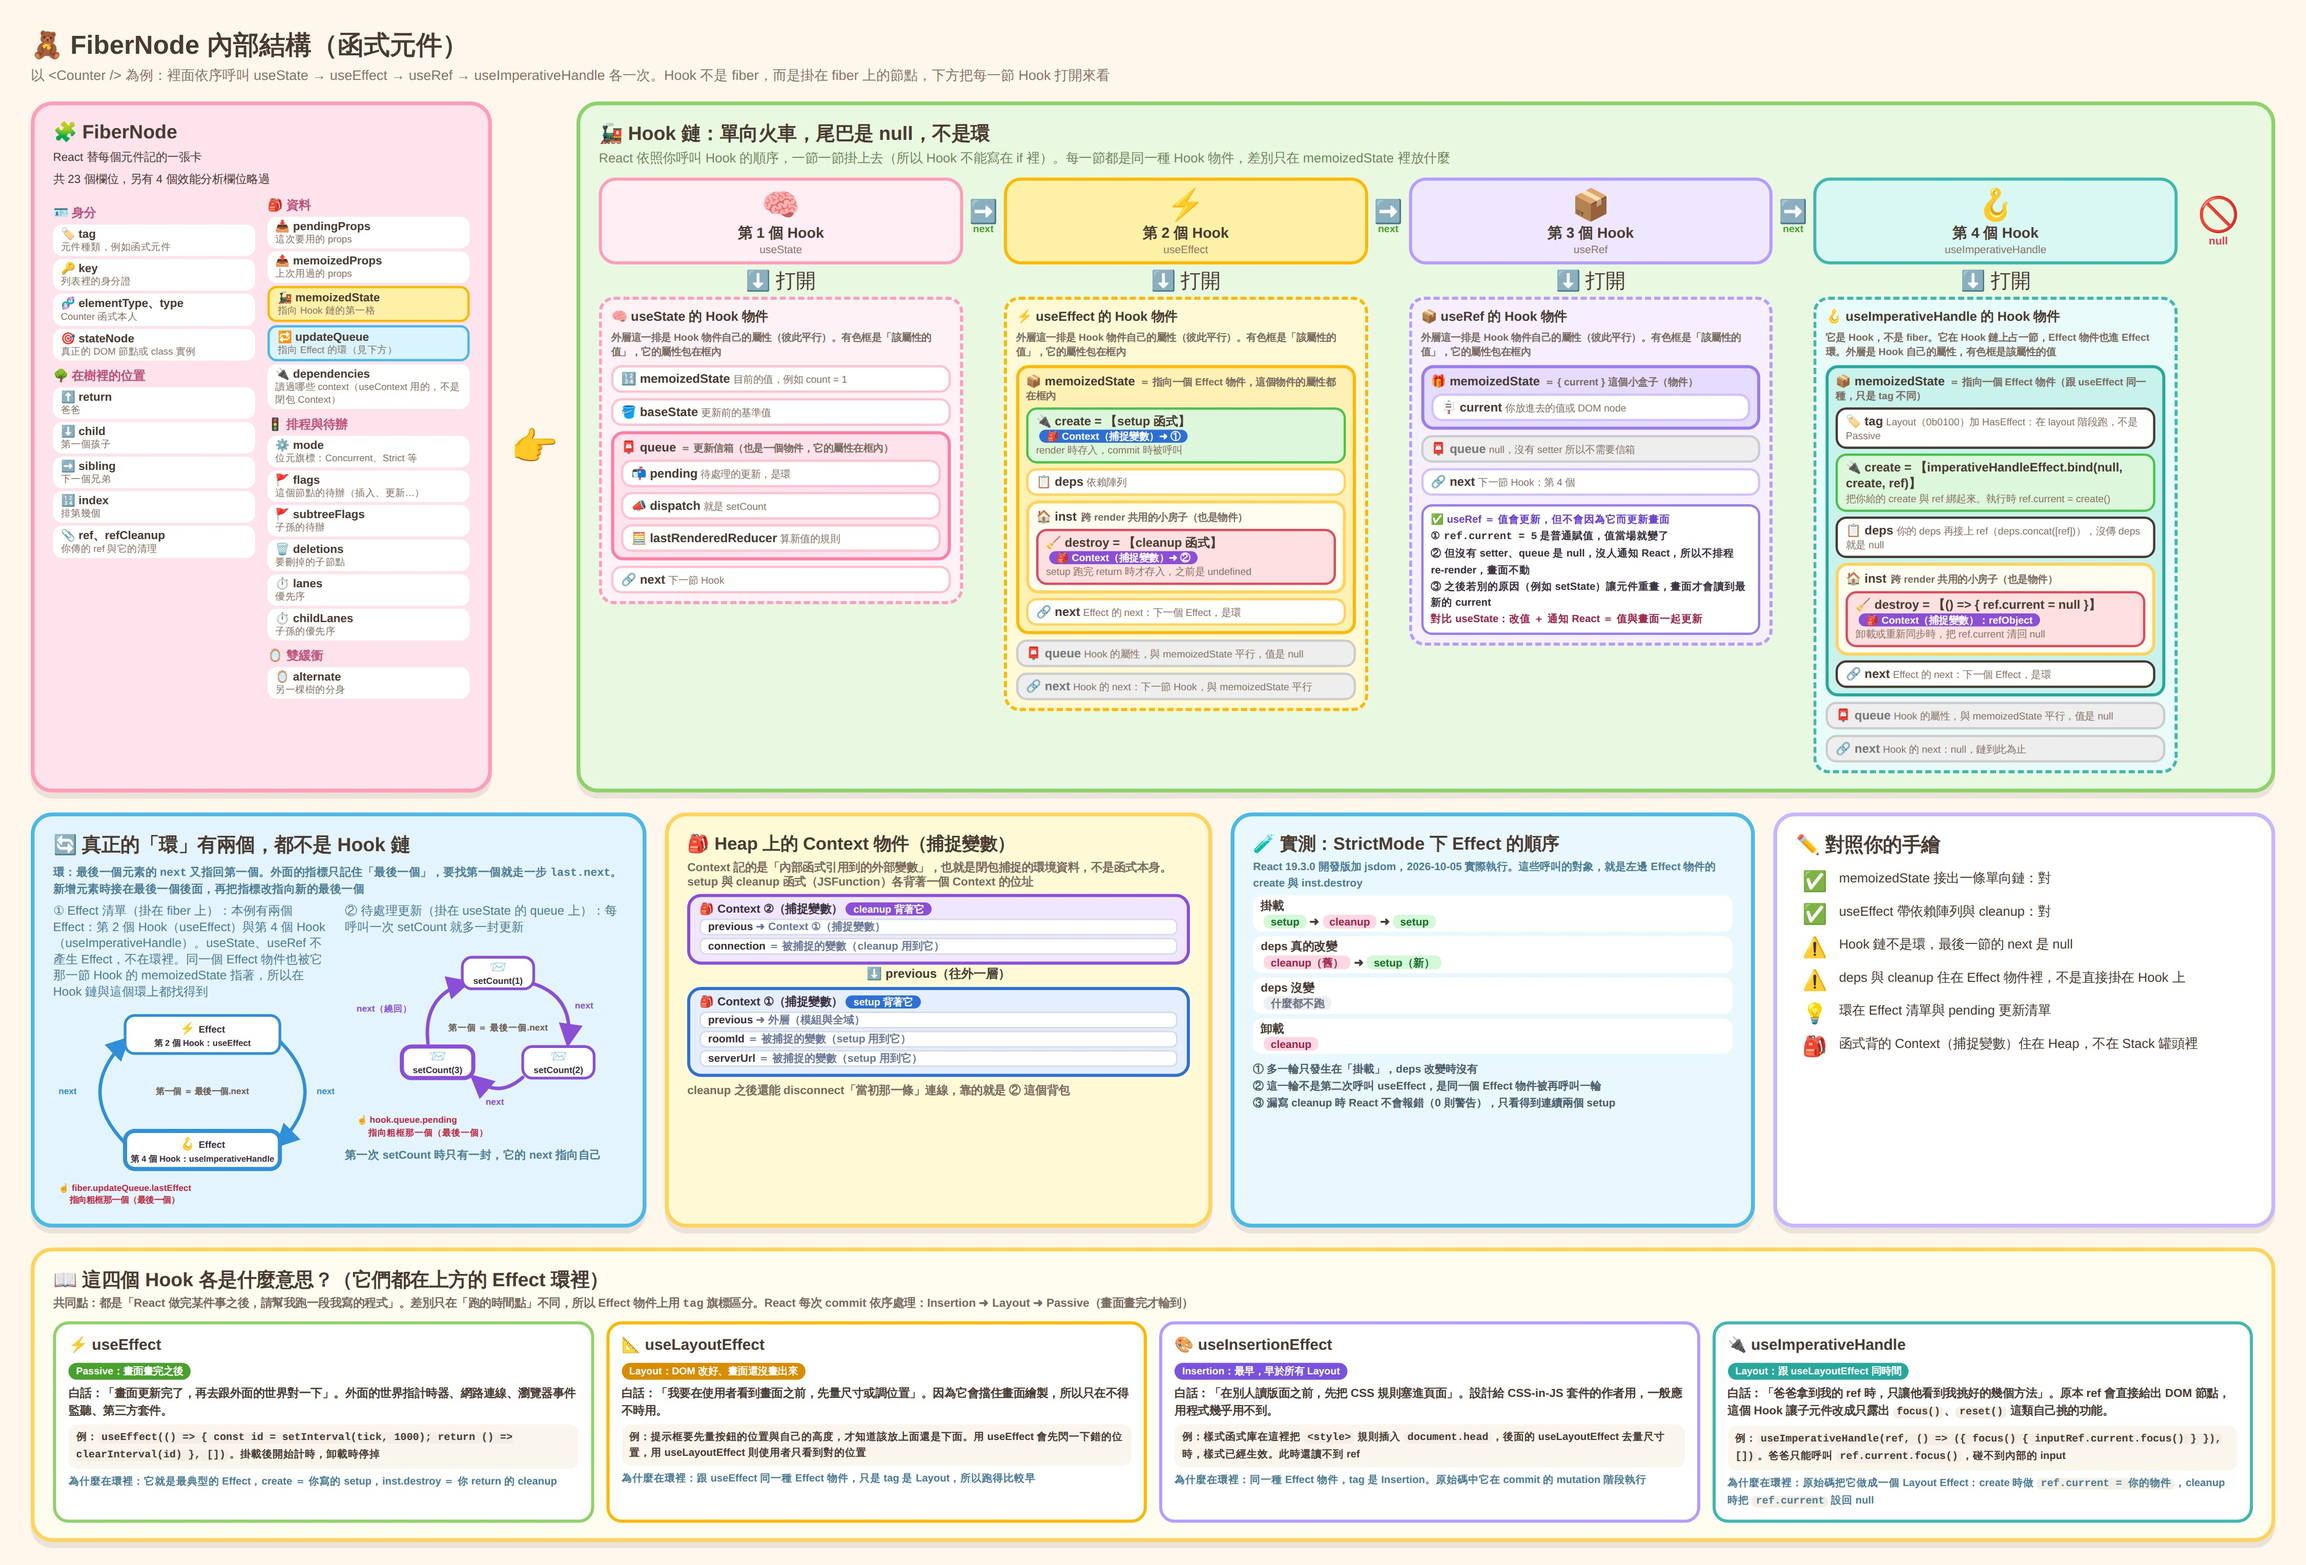
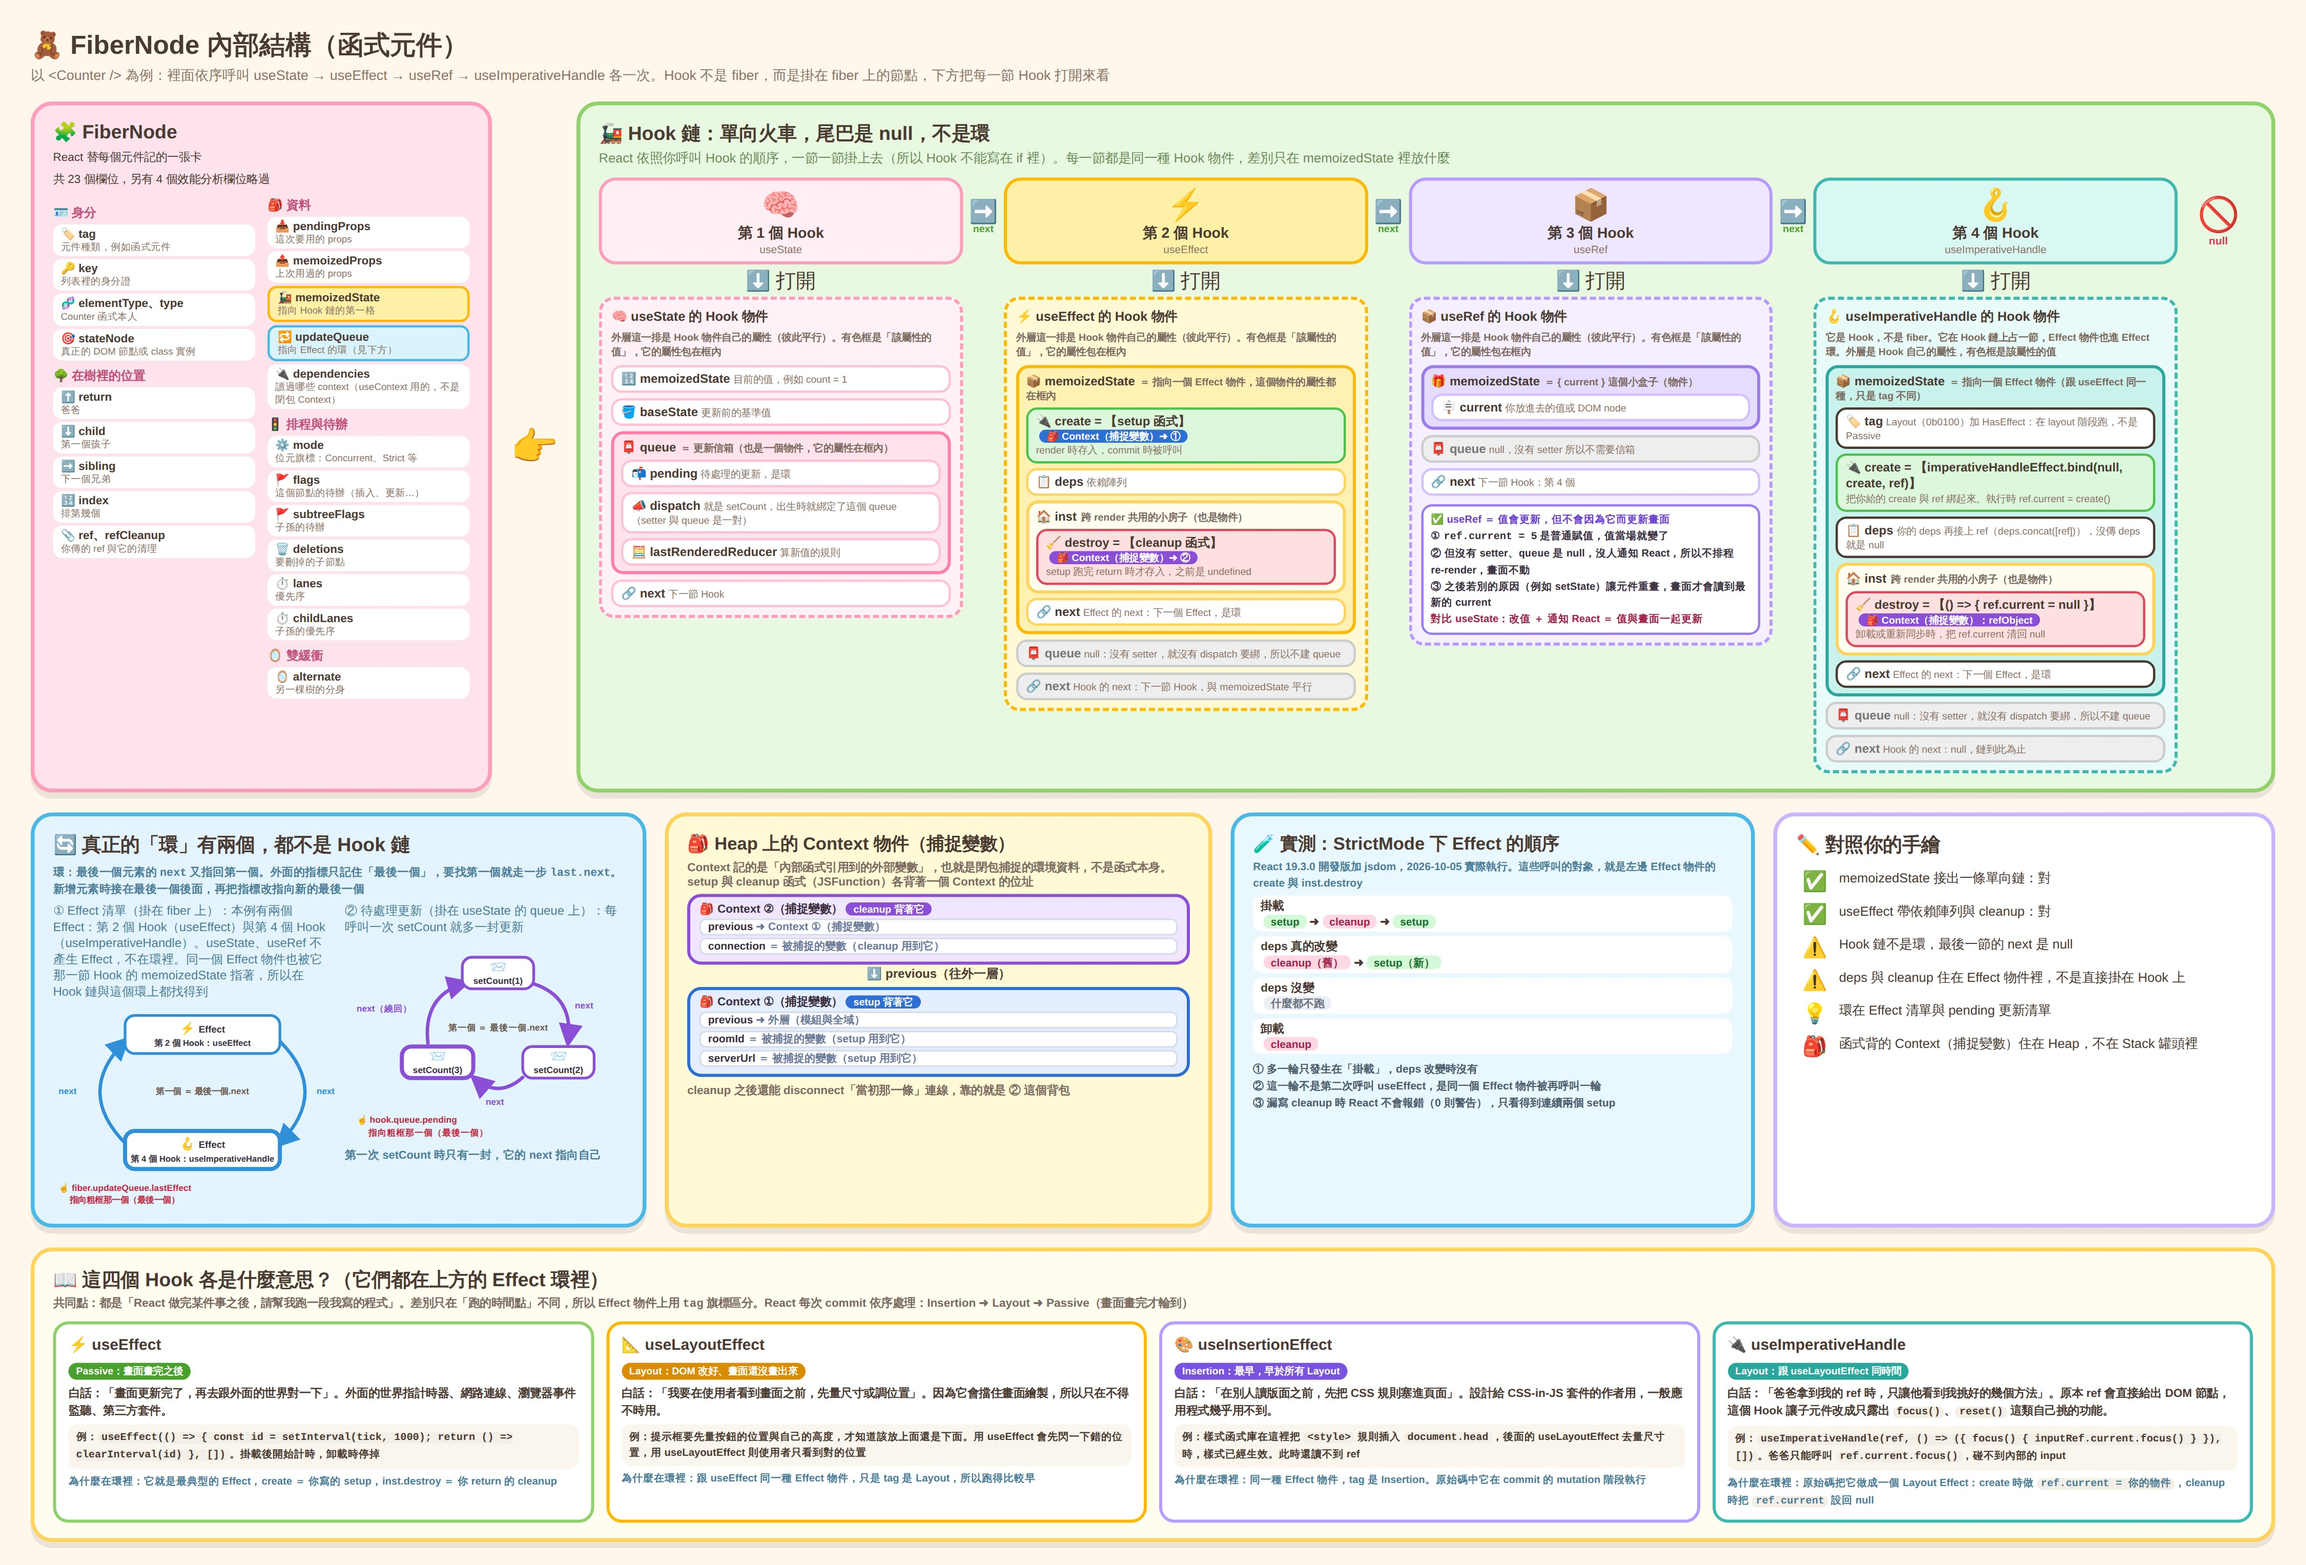
docs: 補 setter 與 queue 是一對（有 setter 才有 queue）的因果說明與圖；新增給 Claude 的記憶 prompt
Claude-Session: https://claude.ai/code/session_01PD3MQfAvZiER3ctSXocKXC

Changed region(s): [[0.2489, 0.3111, 0.4356, 0.4044], [0.84, 0.4355, 0.8711, 0.4666], [0.4978, 0.4044, 0.5289, 0.4355]]

diff --git a/frontend-docs/react/FiberNode內部結構-可愛圖.html b/frontend-docs/react/FiberNode內部結構-可愛圖.html
@@ -143,7 +143,7 @@ td:first-child{width:44px;font-size:26px}
             <div class="nest nq">
               <div class="nh">📮 queue<small>＝ 更新信箱（也是一個物件，它的屬性在框內）</small></div>
               <div class="chip">📬 pending<small>待處理的更新，是環</small></div>
-              <div class="chip">📣 dispatch<small>就是 setCount</small></div>
+              <div class="chip">📣 dispatch<small>就是 setCount，出生時就綁定了這個 queue（setter 與 queue 是一對）</small></div>
               <div class="chip">🧮 lastRenderedReducer<small>算新值的規則</small></div>
             </div>
             <div class="chip">🔗 next<small>下一節 Hook</small></div>
@@ -166,7 +166,7 @@ td:first-child{width:44px;font-size:26px}
               </div>
               <div class="chip">🔗 next<small>Effect 的 next：下一個 Effect，是環</small></div>
             </div>
-            <div class="chip nul">📮 queue<small>Hook 的屬性，與 memoizedState 平行，值是 null</small></div>
+            <div class="chip nul">📮 queue<small>null：沒有 setter，就沒有 dispatch 要綁，所以不建 queue</small></div>
             <div class="chip nul">🔗 next<small>Hook 的 next：下一節 Hook，與 memoizedState 平行</small></div>
           </div>
         </div>
@@ -210,7 +210,7 @@ td:first-child{width:44px;font-size:26px}
               </div>
               <div class="chip">🔗 next<small>Effect 的 next：下一個 Effect，是環</small></div>
             </div>
-            <div class="chip nul">📮 queue<small>Hook 的屬性，與 memoizedState 平行，值是 null</small></div>
+            <div class="chip nul">📮 queue<small>null：沒有 setter，就沒有 dispatch 要綁，所以不建 queue</small></div>
             <div class="chip nul">🔗 next<small>Hook 的 next：null，鏈到此為止</small></div>
           </div>
         </div>

diff --git a/frontend-docs/react/useState底層-Fiber-Tree-memoizedState與過期閉包.md b/frontend-docs/react/useState底層-Fiber-Tree-memoizedState與過期閉包.md
@@ -121,6 +121,30 @@ useEffect 那一節 Hook 的 `memoizedState` 指向的是一個 Effect 物件，
 流程：`setCount(1)` → `dispatchSetState` 建立一封 Update 接到 `queue.pending` 的環上 → 排定 re-render → render 時 `updateReducerImpl` 把 `pending` 併進 `baseQueue`，逐封套用 reducer → 結果存進 Hook 的 `memoizedState`。
 信箱是空的時候，React 還會先用 `lastRenderedReducer` 試算一次，新舊值相同就不排 re-render。
 
+**setter 與 `queue` 是一對的：有 setter 才有 `queue`，沒有 setter 就是 `null`。**
+
+setter（`setCount`）本身就是 `dispatchSetState` 綁上這個 Hook 的 `queue`，它唯一的工作就是把「更新」投進那個 `queue`。所以 `queue` 是 setter 的投遞目的地，兩者必須同時存在。
+
+```js
+function mountState(initialState) {
+  const hook = mountStateImpl(initialState);       // 建 Hook 節點，同時建 queue：hook.queue = { pending: null, dispatch: null, ... }
+  const queue = hook.queue;                        // 取出剛建好的 queue
+  const dispatch = dispatchSetState.bind(          // bind：預先把前兩個參數填好，產生一個新函式
+    null, currentlyRenderingFiber, queue);         // 填好「哪個 fiber」與「哪個 queue」，之後呼叫只需傳新值
+  queue.dispatch = dispatch;                       // queue 也記住這個 dispatch
+  return [hook.memoizedState, dispatch];           // 回傳 [state, setter]，這個 dispatch 就是你的 setCount
+}
+```
+
+| 步驟 | 發生什麼 | 與 `queue` 的關係 |
+|---|---|---|
+| 1 | `mountStateImpl` 建立 `queue` 物件 | `queue` 為了給 setter 投遞而誕生 |
+| 2 | `dispatchSetState.bind(null, fiber, queue)` 產生 setter | setter 的第二個固定參數就是這個 `queue` |
+| 3 | 你呼叫 `setCount(1)` | `dispatchSetState` 把一封 Update 接到 `queue.pending` |
+| 4 | 下次 render，`updateReducerImpl` 讀 `queue.pending` | 拆信算出新 state |
+
+反過來看：`useRef`、`useEffect` 沒有 setter，就沒有 `dispatchSetState.bind(...)` 這一步，沒有東西要投信，所以 `mountRef`、`mountEffectImpl` 都沒建 `queue`，Hook 節點上的 `queue` 維持 `mountWorkInProgressHook` 給的初值 `null`。因果方向是「沒有 setter ⇒ 不需要 queue」，不是「不需要更新畫面 ⇒ queue 為 null」。
+
 **為什麼 `useEffect` 的 `queue` 是 `null`？**
 `queue` 是「更新信箱」，專門收 `setState`／`dispatch` 排進來的待處理更新。只有「有 setter、會被人呼叫來排更新」的 Hook 才需要它。`useEffect` 沒有 setter，更新來源只有「下一次 render 時 React 自己比較 deps」，所以 `mountEffectImpl` 完全沒去設定 `hook.queue`，維持 `mountWorkInProgressHook` 建立時的初值 `null`。
 

diff --git a/LLM-Memory/給Claude的自我提醒-記憶prompt-概念關聯要講清楚.md b/LLM-Memory/給Claude的自我提醒-記憶prompt-概念關聯要講清楚.md
@@ -1,0 +1,31 @@
+---
+title: 給 Claude 的自我提醒（記憶 prompt）：概念關聯要講清楚
+type: prompt
+created: 2026-10-06
+---
+
+# 給 Claude 的自我提醒（記憶 prompt）
+
+本篇共 5 個重點 a–e。使用方式：整段複製，貼到 Claude 的「記憶／自訂指示」，或貼進 vault 的 `CLAUDE.md`。（Claude 的記憶是 app 層級，不會自動從 repo 同步，所以要手動貼。）
+
+## 可複製的 prompt
+
+```text
+當我說「A 跟 B 有關係」「你應該講清楚一點」，代表你只丟了結論，沒有講出「為什麼有關」。照以下規則回答：
+
+a. 把關係寫成「因果鏈」，明講方向。格式：「因為 X 所以 Y」，並指出相反的說法是錯的（例：有 setter 才有 queue；不是因為不更新畫面才沒有 queue）。
+b. 用「原始碼逐行 + 一個步驟表」說明，每一行都解釋關鍵字（函式、bind、物件屬性等），不要只講概念。
+c. 我指出講不夠清楚的地方，要同時補進「圖片」與「筆記」，融合進既有段落或表格，不要只在對話裡補充，也不要另開新章節。
+d. 表格不可有空白欄；標籤要明確（寫「第 N 個 Hook」「步驟 N」，不要寫含糊的「Hook ②」）。
+e. 先承認哪裡講漏了，再補；查不到的外部事實（例如 react.dev 被擋）要標「⚠ 存疑」，說明哪些已對照原始碼、哪些是憑記憶。
+```
+
+## 為什麼這樣寫
+
+| 重點 | 對應到這次的錯誤 |
+|---|---|
+| a 因果鏈 | 我只說「useRef 的 queue 是 null」，沒講 setter 與 queue 是一對，Abby 才會追問 |
+| b 逐行 + 步驟表 | 她的偏好是每個關鍵字都解釋，一次講完不要讓她再問 |
+| c 圖與筆記同步補 | 她明確要求圖片與筆記都要寫，且偏好融合而非新增區塊 |
+| d 不留空白 | 上一版 Hook 表格四格說明是空的 |
+| e 標示存疑 | CLAUDE.md 的來源規則：查核不到要註明 |
